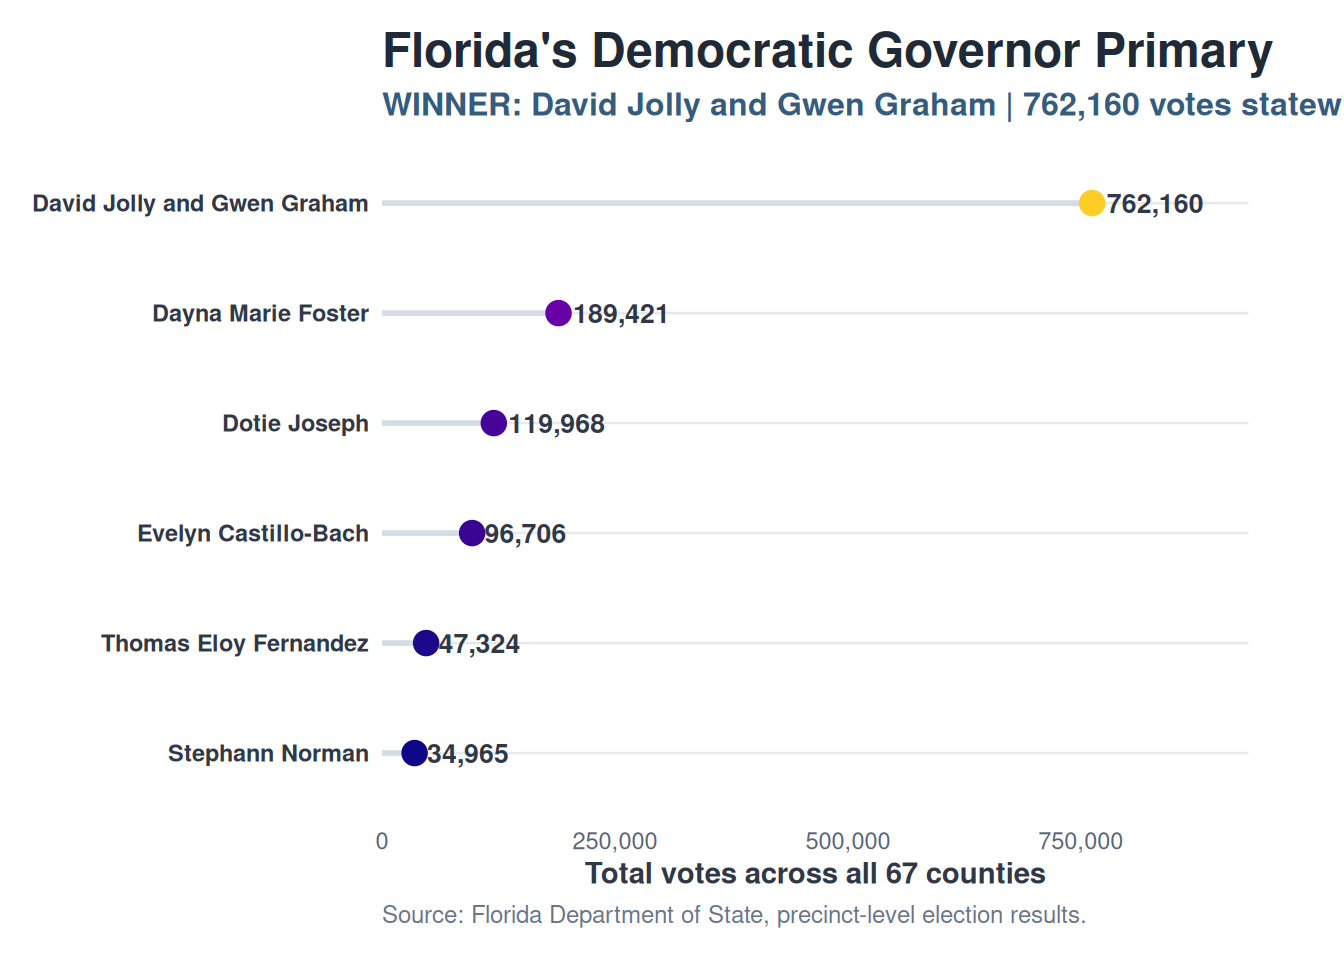
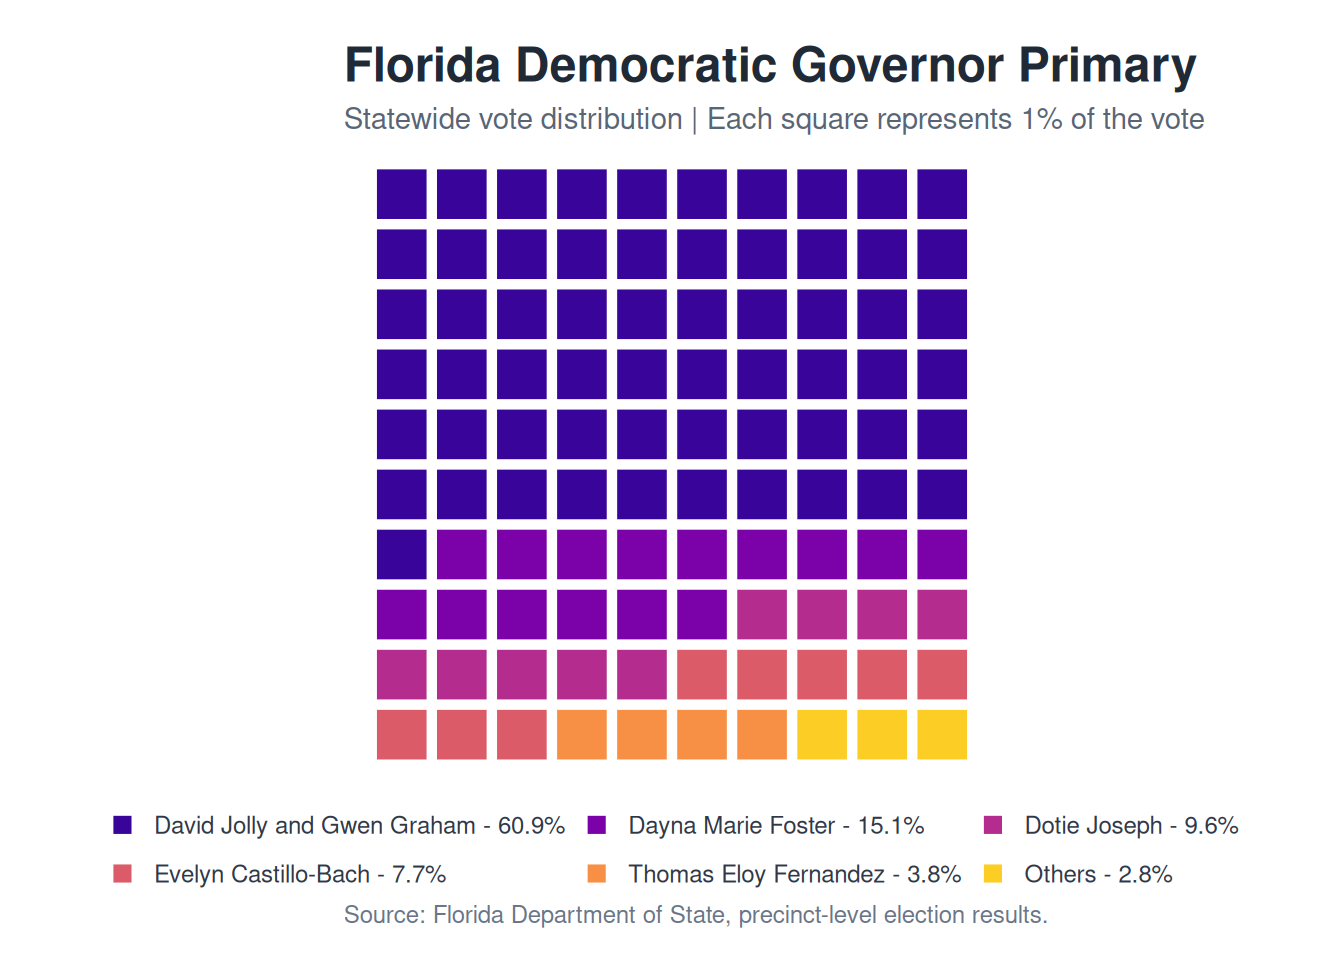
Built site for gh-pages

Changed region(s): [[0.0312, 0.0312, 1.0, 0.8125], [0.0625, 0.8438, 0.9375, 0.9688]]

diff --git a/analysis.html b/analysis.html
@@ -88,7 +88,7 @@ ul.task-list li input[type="checkbox"] {
 </div>
 </div>
 </div>
-<p>David Jolly and Gwen Graham received the most votes, with 762,160 statewide, and won the Democratic nomination for Governor. Dayna Marie Foster placed second with 189,421 votes.</p>
+<p>David Jolly and Gwen Graham received the most votes statewide and won the Democratic nomination for Governor. Candidates receiving less than 3% of the vote are combined as “Others”; vote shares are rounded to the nearest whole percentage to fill the 100-square grid.</p>
 </section>
 
 </main>

diff --git a/index.html b/index.html
@@ -88,7 +88,7 @@ ul.task-list li input[type="checkbox"] {
 </div>
 </div>
 </div>
-<p>David Jolly and Gwen Graham received the most votes, with 762,160 statewide, and won the Democratic nomination for Governor. Dayna Marie Foster placed second with 189,421 votes.</p>
+<p>David Jolly and Gwen Graham received the most votes statewide and won the Democratic nomination for Governor. Candidates receiving less than 3% of the vote are combined as “Others”; vote shares are rounded to the nearest whole percentage to fill the 100-square grid.</p>
 </section>
 
 </main>
